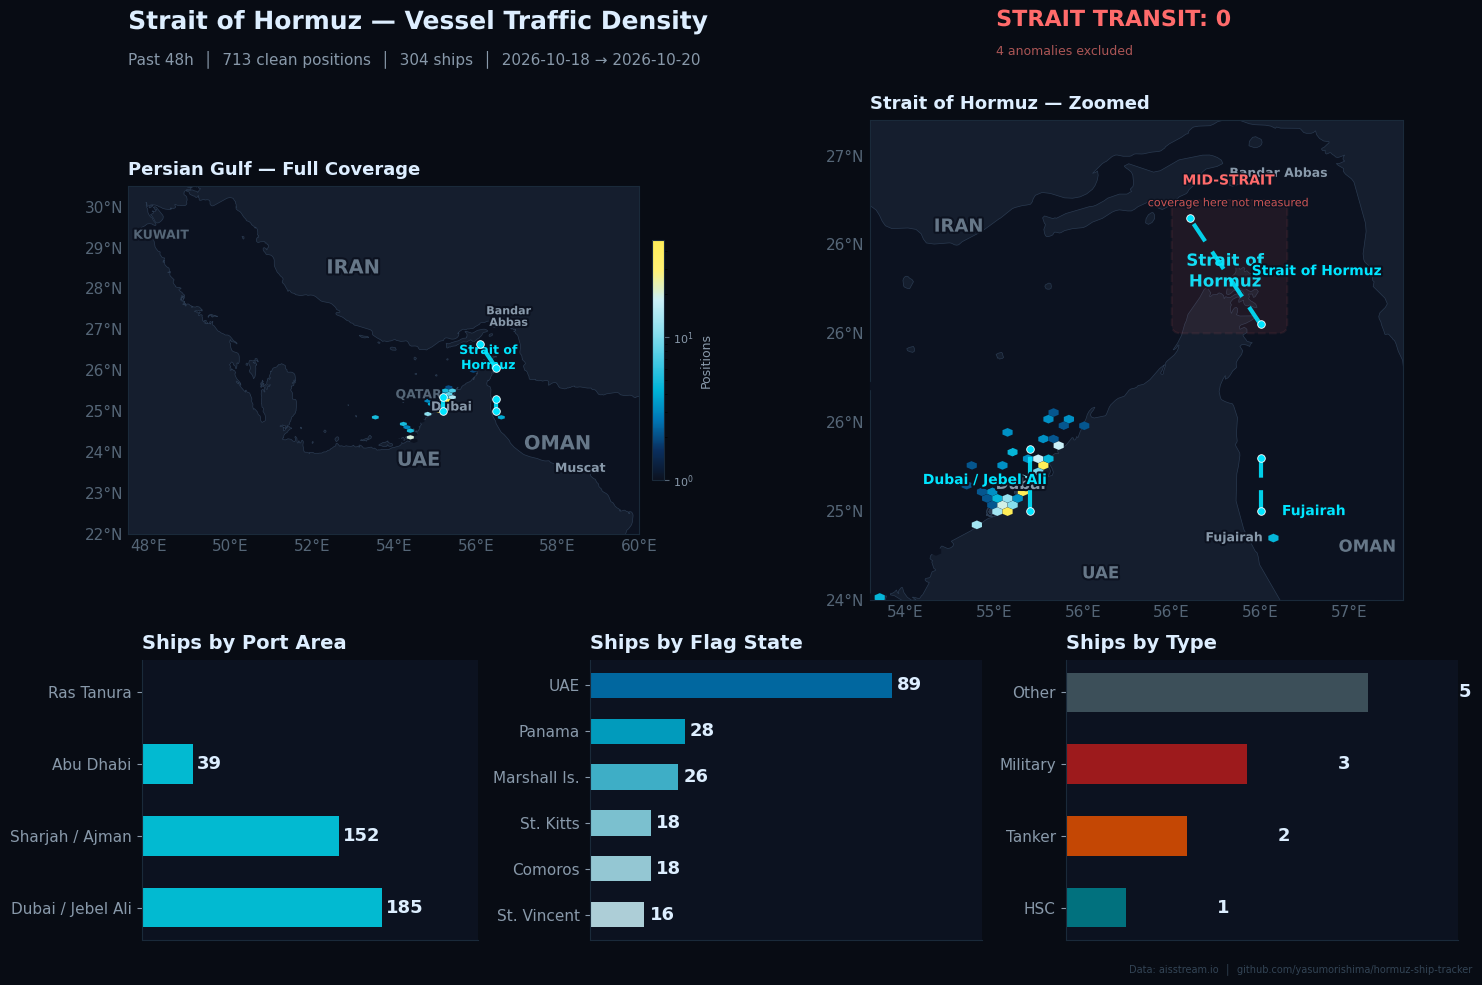
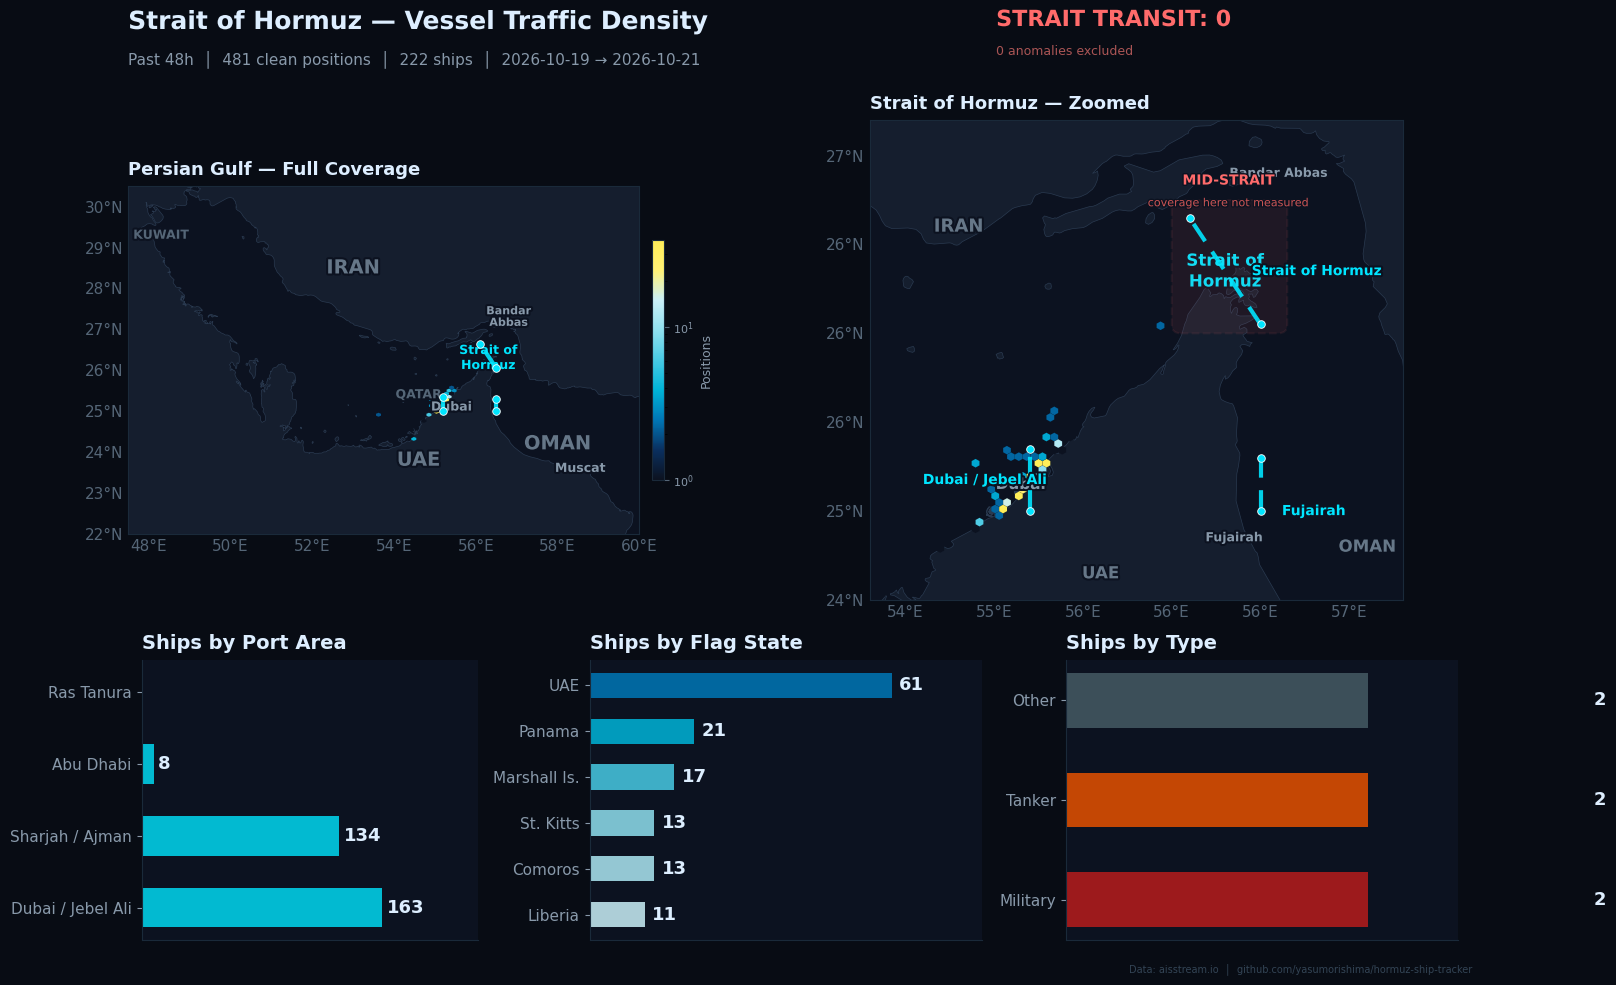
snapshot: 53 vessels at 2026-10-21 04:43 UTC

diff --git a/docs/STATS.md b/docs/STATS.md
@@ -1,17 +1,17 @@
 # Collection Statistics
 
-*Auto-updated: 2026-10-20 23:52 UTC*
+*Auto-updated: 2026-10-21 04:43 UTC*
 
 ## Overview
 
 | Metric | Value |
 |---|---|
-| Collection period | 2026-10-18 → 2026-10-20 (2.8 days) |
-| Total positions | 717 |
-| Clean positions | 713 (99%) |
-| Anomalous positions | 4 (0%) |
-| Unique vessels | 304 |
-| Avg positions/day | 252 |
+| Collection period | 2026-10-19 → 2026-10-21 (2.1 days) |
+| Total positions | 481 |
+| Clean positions | 481 (100%) |
+| Anomalous positions | 0 (0%) |
+| Unique vessels | 222 |
+| Avg positions/day | 227 |
 | Strait of Hormuz transits | 0 |
 | Total gate crossings | 0 |
 
@@ -19,27 +19,27 @@
 
 | Date | Positions | Vessels |
 |---|---:|---:|
-| 2026-10-18 | 328 | 193 |
 | 2026-10-19 | 182 | 118 |
 | 2026-10-20 | 207 | 145 |
+| 2026-10-21 | 92 | 77 |
 
 ## Hourly Traffic Pattern (UTC)
 
 Average positions per hour across all days (clean data only):
 
 ```
-  01:00    43  ████████████████████
-  02:00    46  ██████████████████████
-  06:00    22  ██████████
-  07:00    34  ████████████████
-  10:00    83  ████████████████████████████████████████
-  13:00    38  ██████████████████
-  14:00    39  ██████████████████
-  17:00    33  ███████████████
-  19:00    31  ██████████████
-  20:00    28  █████████████
-  21:00    35  ████████████████
-  23:00    35  ████████████████
+  00:00    39  █████████████████████████████
+  01:00    47  ███████████████████████████████████
+  02:00    46  ██████████████████████████████████
+  04:00    53  ████████████████████████████████████████
+  06:00    21  ███████████████
+  07:00    34  █████████████████████████
+  13:00    38  ████████████████████████████
+  14:00    39  █████████████████████████████
+  17:00    30  ██████████████████████
+  20:00    28  █████████████████████
+  21:00    44  █████████████████████████████████
+  23:00    27  ████████████████████
 ```
 
 ## Gate Crossings by Day
@@ -50,55 +50,53 @@ No transit events recorded yet.
 
 | Flag | Country | Vessels |
 |---|---|---:|
-| AE | UAE | 89 |
-| PA | Panama | 28 |
-| MH | Marshall Is. | 26 |
-| KN | St. Kitts | 18 |
-| KM | Comoros | 18 |
-| VC | St. Vincent | 16 |
-| LR | Liberia | 15 |
-| SG | Singapore | 7 |
-| KY | Cayman | 7 |
-| NL | Netherlands | 6 |
+| AE | UAE | 61 |
+| PA | Panama | 21 |
+| MH | Marshall Is. | 17 |
+| KN | St. Kitts | 13 |
+| KM | Comoros | 13 |
+| LR | Liberia | 11 |
+| VC | St. Vincent | 9 |
+| KY | Cayman | 6 |
+| TG | TG | 5 |
+| SG | Singapore | 5 |
 
 ## Vessel Types
 
 | Type | Vessels |
 |---|---:|
-| Other | 5 |
-| Military | 3 |
+| Other | 2 |
 | Tanker | 2 |
-| HSC | 1 |
+| Military | 2 |
 
 ## Most Tracked Vessels
 
 | Ship Name | Flag | Type | Positions | First Seen | Last Seen |
 |---|---|---|---:|---|---|
-| PLC-03 | AE | Unknown | 12 | 2026-10-18 | 2026-10-20 |
-| PACIFIC PHOENIX | -- | Unknown | 12 | 2026-10-18 | 2026-10-20 |
-| AARNA | KN | Unknown | 11 | 2026-10-18 | 2026-10-20 |
-| ENAD | AE | Unknown | 11 | 2026-10-18 | 2026-10-20 |
-| SEAFOX BURJ | MH | Unknown | 11 | 2026-10-18 | 2026-10-20 |
-| BARDSEY ISLAND | GB | Unknown | 10 | 2026-10-18 | 2026-10-20 |
-| VORTEX VELA | LR | Unknown | 10 | 2026-10-18 | 2026-10-20 |
-| BARGE LESVOS V | -- | Unknown | 10 | 2026-10-18 | 2026-10-20 |
-| SEA BULLDOG | NL | Unknown | 9 | 2026-10-18 | 2026-10-20 |
-| THUNDER | -- | HSC | 9 | 2026-10-18 | 2026-10-20 |
-| MILLENNIUM | AE | Unknown | 9 | 2026-10-18 | 2026-10-20 |
-| MCS ANNEKE 2 | -- | Unknown | 8 | 2026-10-18 | 2026-10-20 |
-| COASTAL RANGER | NL | Unknown | 8 | 2026-10-18 | 2026-10-20 |
-| BARAKA 50 | -- | Other | 8 | 2026-10-18 | 2026-10-20 |
-| AK ROYALTY | -- | Unknown | 8 | 2026-10-18 | 2026-10-19 |
+| PACIFIC PHOENIX | -- | Unknown | 9 | 2026-10-19 | 2026-10-21 |
+| BARDSEY ISLAND | GB | Unknown | 8 | 2026-10-19 | 2026-10-21 |
+| THUNDER | -- | Unknown | 8 | 2026-10-19 | 2026-10-21 |
+| AL AMLAQ | AE | Unknown | 8 | 2026-10-19 | 2026-10-21 |
+| MILLENNIUM | AE | Unknown | 8 | 2026-10-19 | 2026-10-21 |
+| SEA BULLDOG | NL | Unknown | 7 | 2026-10-19 | 2026-10-21 |
+| AARNA | KN | Unknown | 7 | 2026-10-19 | 2026-10-21 |
+| ENAD | AE | Unknown | 7 | 2026-10-19 | 2026-10-21 |
+| SEAFOX BURJ | MH | Unknown | 7 | 2026-10-19 | 2026-10-21 |
+| COASTAL RANGER | NL | Unknown | 6 | 2026-10-19 | 2026-10-21 |
+| OJAS PRIDE | KN | Unknown | 6 | 2026-10-19 | 2026-10-21 |
+| DELTA  XV | PA | Unknown | 6 | 2026-10-19 | 2026-10-21 |
+| DTA DEAN ANDREW | AE | Unknown | 6 | 2026-10-19 | 2026-10-21 |
+| LESVOS IX | -- | Unknown | 6 | 2026-10-19 | 2026-10-21 |
+| MCS ANNEKE 2 | -- | Unknown | 5 | 2026-10-19 | 2026-10-21 |
 
 ## Top Destinations
 
 | Destination | Vessels |
 |---|---:|
-| Port Rashid | 5 |
-| Dubai | 5 |
+| Port Rashid | 2 |
+| Dubai | 2 |
 | UMM AL NAAR-MINA ZAY | 1 |
 | SEA-TRIAL | 1 |
-| MUSAFFAH_ | 1 |
 | Jebel Ali | 1 |
 | IQKAZ | 1 |
 | Dubai Maritime City | 1 |
